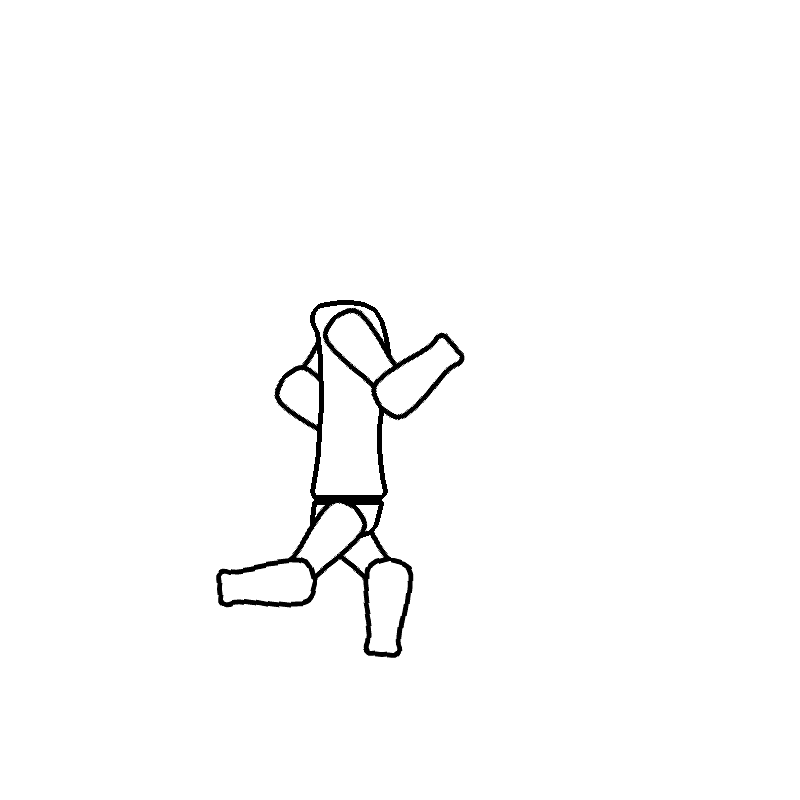
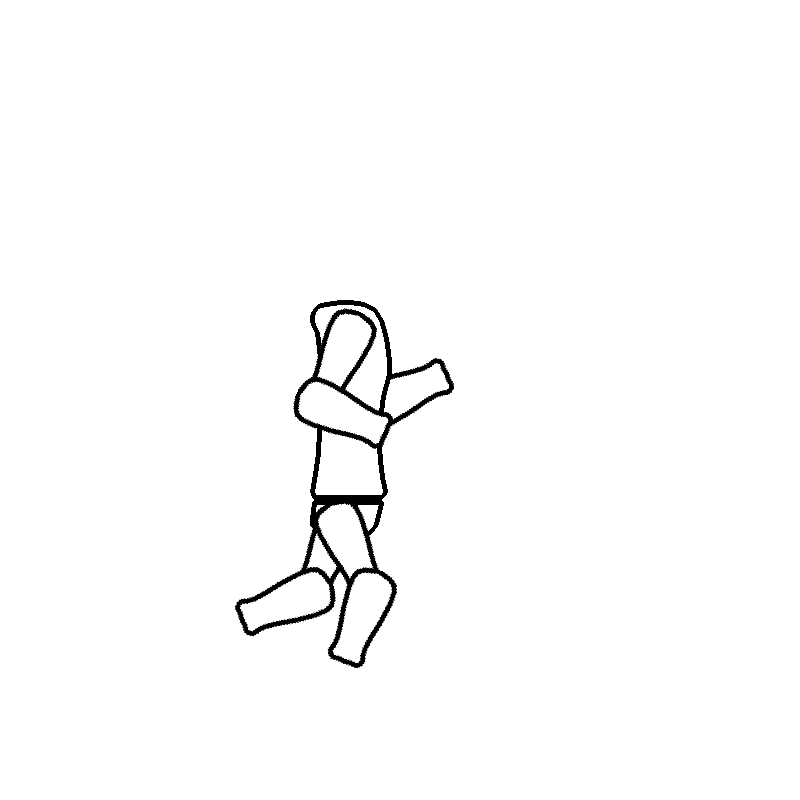
allowed for odd negative transitionTypes

Changed region(s): [[0.2812, 0.625, 0.5312, 0.8438], [0.3438, 0.375, 0.5938, 0.5625], [0.25, 0.7188, 0.2812, 0.75]]

diff --git a/src/com/gmail/youknowjoejoe/animator/Animator.java b/src/com/gmail/youknowjoejoe/animator/Animator.java
@@ -89,13 +89,13 @@ public class Animator {
         
         int img = 0;
         
-        for(int i = 0; i < 60; i++){
+        for(int i = 0; i < 16; i++){
             //setup g2d
             BufferedImage buffer = new BufferedImage(800,800,BufferedImage.TYPE_INT_ARGB);
             Graphics2D g2d = buffer.createGraphics();
             
             //draw all the things
-            sc.update(i*4.0/60.0);
+            sc.update(i*4.0/16.0);
             sc.draw(g2d);
             
             //dispose and save image

diff --git a/src/com/gmail/youknowjoejoe/animator/Transformation.java b/src/com/gmail/youknowjoejoe/animator/Transformation.java
@@ -36,7 +36,7 @@ public class Transformation {
     	if(transitionType > 1){
     		tempFactor = Math.pow(factor,transitionType);
     	} else if(transitionType < 0){
-    		tempFactor = -Math.pow(factor-1, transitionType)+1;
+    		tempFactor = -Math.pow(Math.abs(factor-1), transitionType)+1;
     	}
     	
     	at = new AffineTransform();
